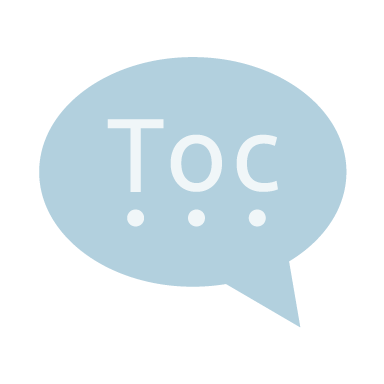
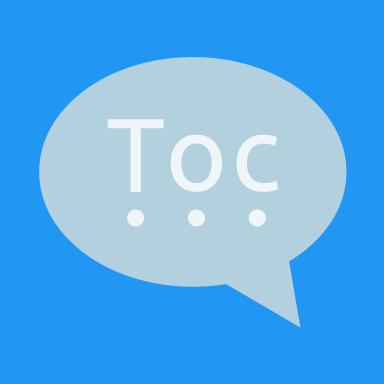
Fixed wrong place to add barcode scanner
Made ios icon default

diff --git a/toc/app/components/begin-conversation-modal/begin-conversation-modal-directive.js b/toc/app/components/begin-conversation-modal/begin-conversation-modal-directive.js
@@ -84,6 +84,37 @@ export default /*@ngInject*/ function tocBeginConversationModal() {
         'enter': {
           icon: 'ion-ios-compose',
           text: 'Enter an ID',
+          isEnabled: true,
+          doInvite: () => {
+            let invitePopup = $ionicPopup.show({
+              template: `
+                <form ng-submit="beginConversationModal.sendInvite()"
+                  novalidate>
+                <input type="text" placeholder="Your contact's user ID."
+                  ng-model="beginConversationModal.contactId" toc-auto-focus>
+                </form>
+              `,
+              title: 'Enter ID',
+              scope: $scope,
+              buttons: [
+                {
+                  text: 'Cancel',
+                  type: 'button-positive button-block button-outline'
+                },
+                {
+                  text: 'Invite',
+                  type: 'button-positive button-block',
+                  onTap: (event) => {
+                    return this.sendInvite(event);
+                  }
+                }
+              ]
+            });
+          }
+        },
+        'scan': {
+          icon: 'ion-camera',
+          text: 'Scan a picture ID',
           isEnabled: isWebIdScannerSupported || devices.isIosApp(),
           doInvite: () => {
             if (devices.isIosApp()) {
@@ -121,38 +152,6 @@ export default /*@ngInject*/ function tocBeginConversationModal() {
                 })
                 .catch(handleInviteError);
             }
-
-            let invitePopup = $ionicPopup.show({
-              template: `
-                <form ng-submit="beginConversationModal.sendInvite()"
-                  novalidate>
-                <input type="text" placeholder="Your contact's user ID."
-                  ng-model="beginConversationModal.contactId" toc-auto-focus>
-                </form>
-              `,
-              title: 'Enter ID',
-              scope: $scope,
-              buttons: [
-                {
-                  text: 'Cancel',
-                  type: 'button-positive button-block button-outline'
-                },
-                {
-                  text: 'Invite',
-                  type: 'button-positive button-block',
-                  onTap: (event) => {
-                    return this.sendInvite(event);
-                  }
-                }
-              ]
-            });
-          }
-        },
-        'scan': {
-          icon: 'ion-camera',
-          text: 'Scan a picture ID',
-          isEnabled: true,
-          doInvite: () => {
             let qrScannerPopup = $ionicPopup.show({
               title: 'Scanning ID',
               cssClass: 'toc-id-scanner-popup',

diff --git a/toc/app/services/devices/devices-service.js b/toc/app/services/devices/devices-service.js
@@ -29,7 +29,7 @@ export default /*@ngInject*/ function devices(
     return $window.cordova.platformId === 'android';
   };
 
-  let isIosApp = function isAndroidApp() {
+  let isIosApp = function isIosApp() {
     if (!isCordovaApp()) {
       return false;
     }
